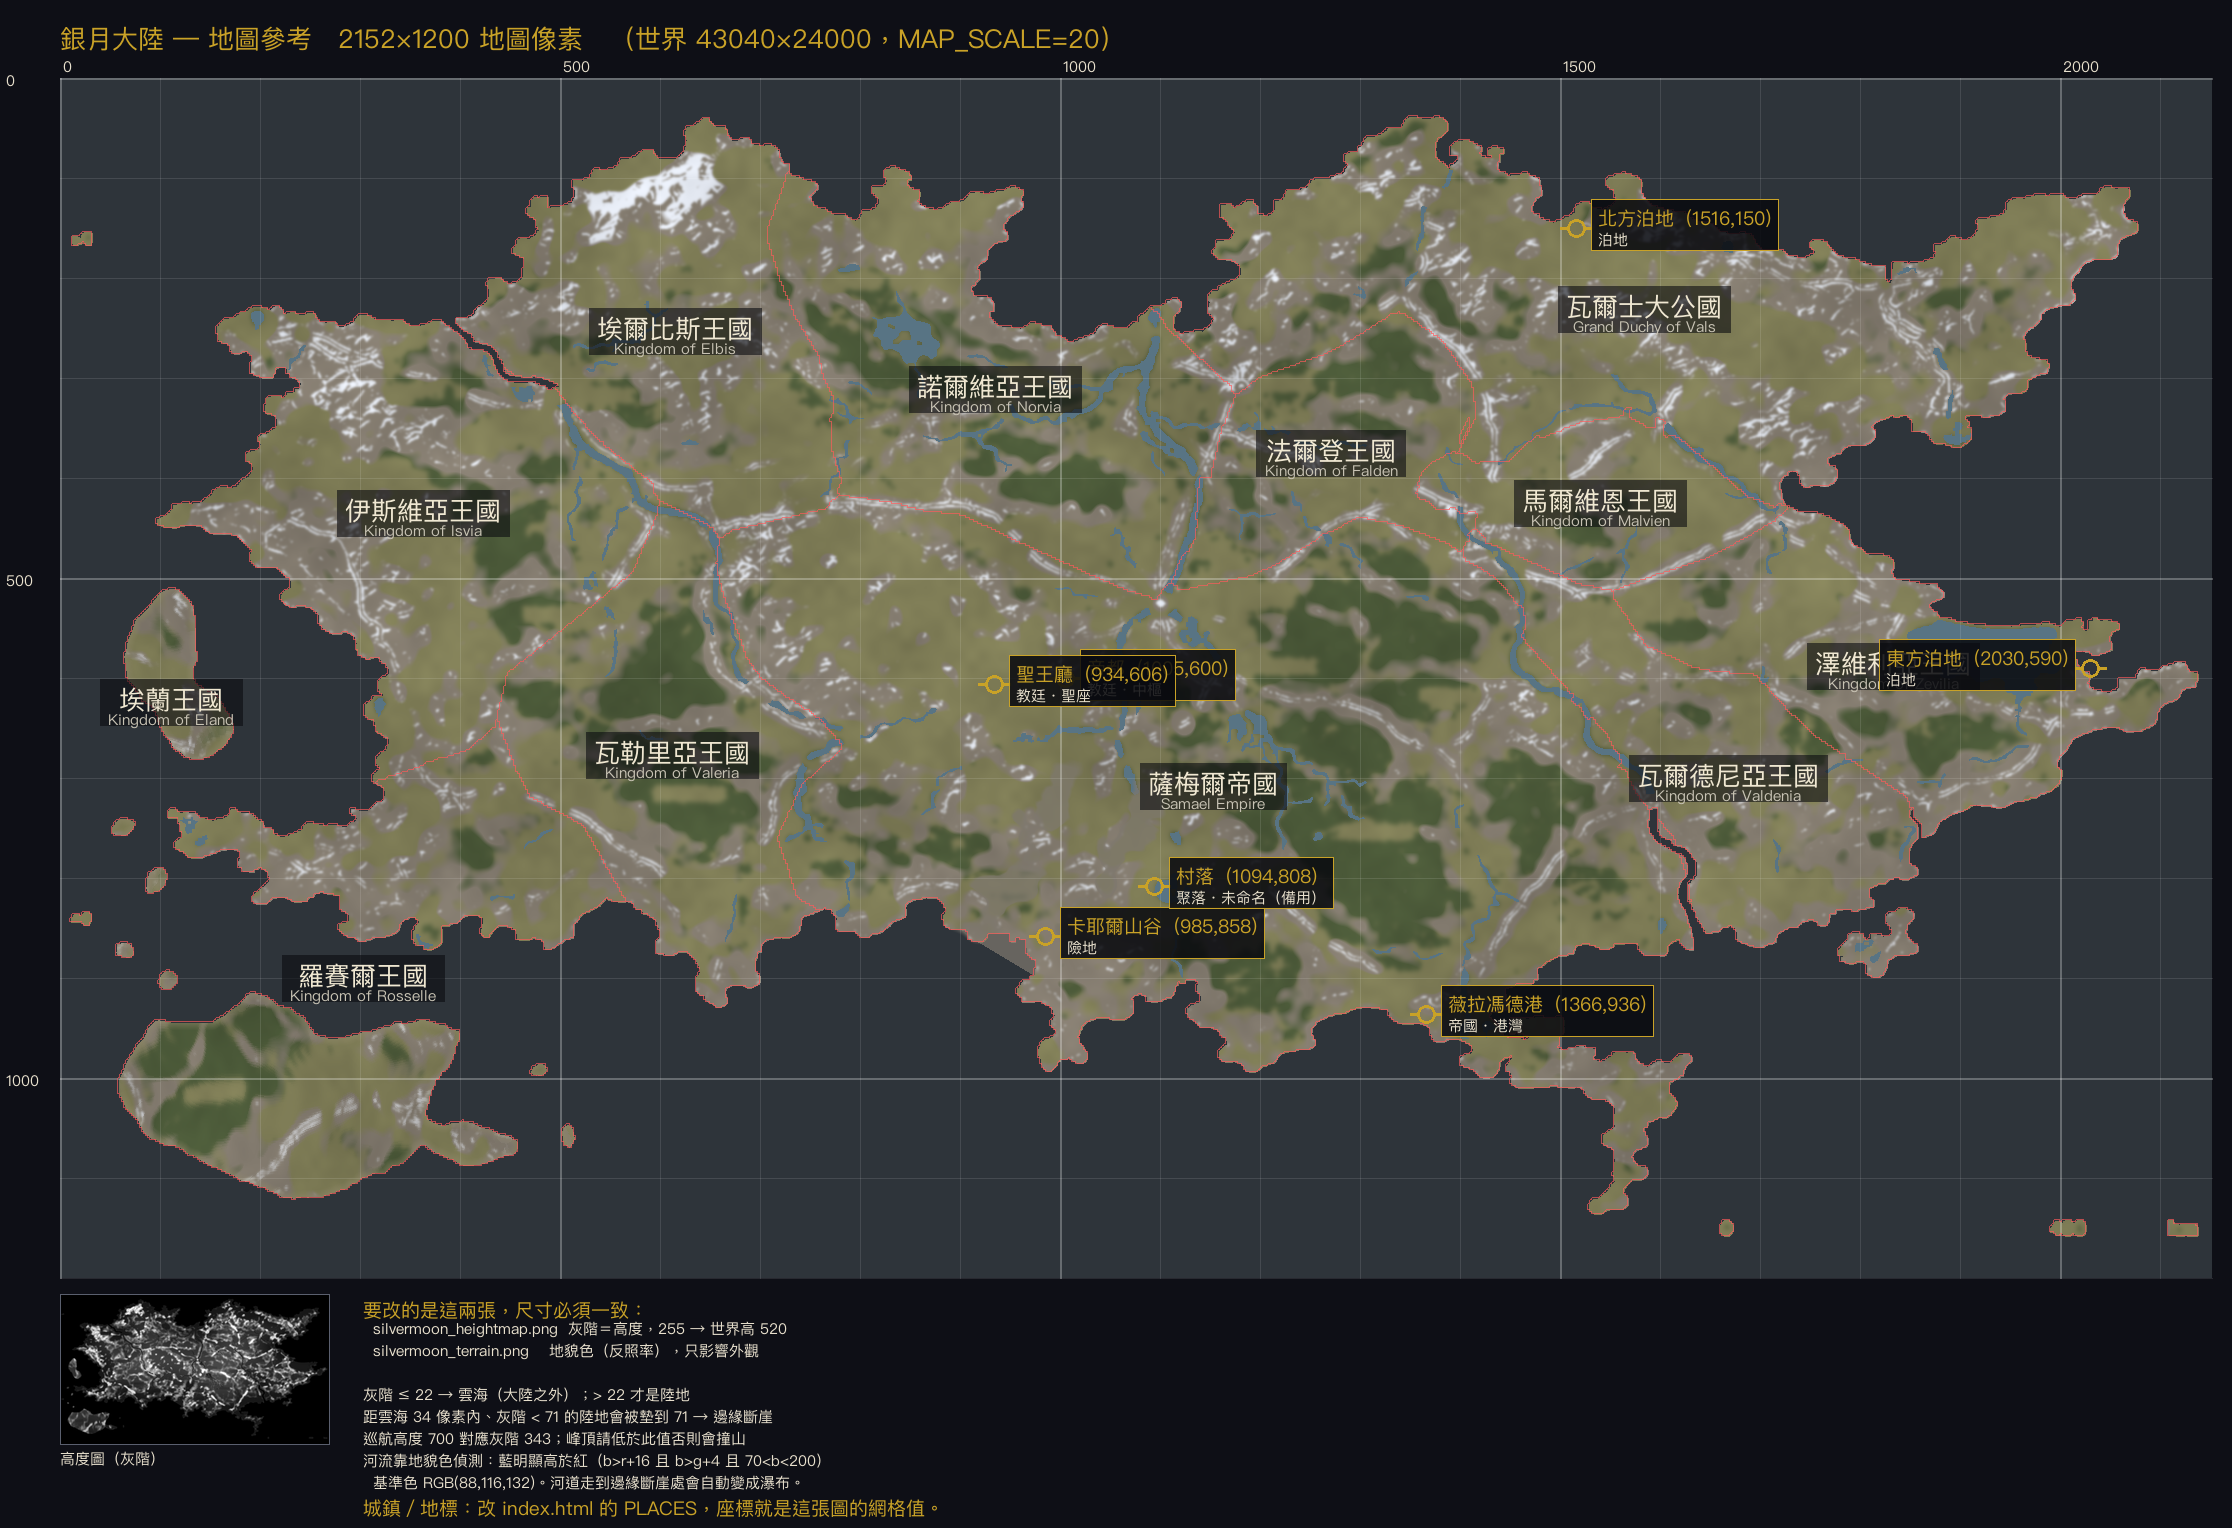
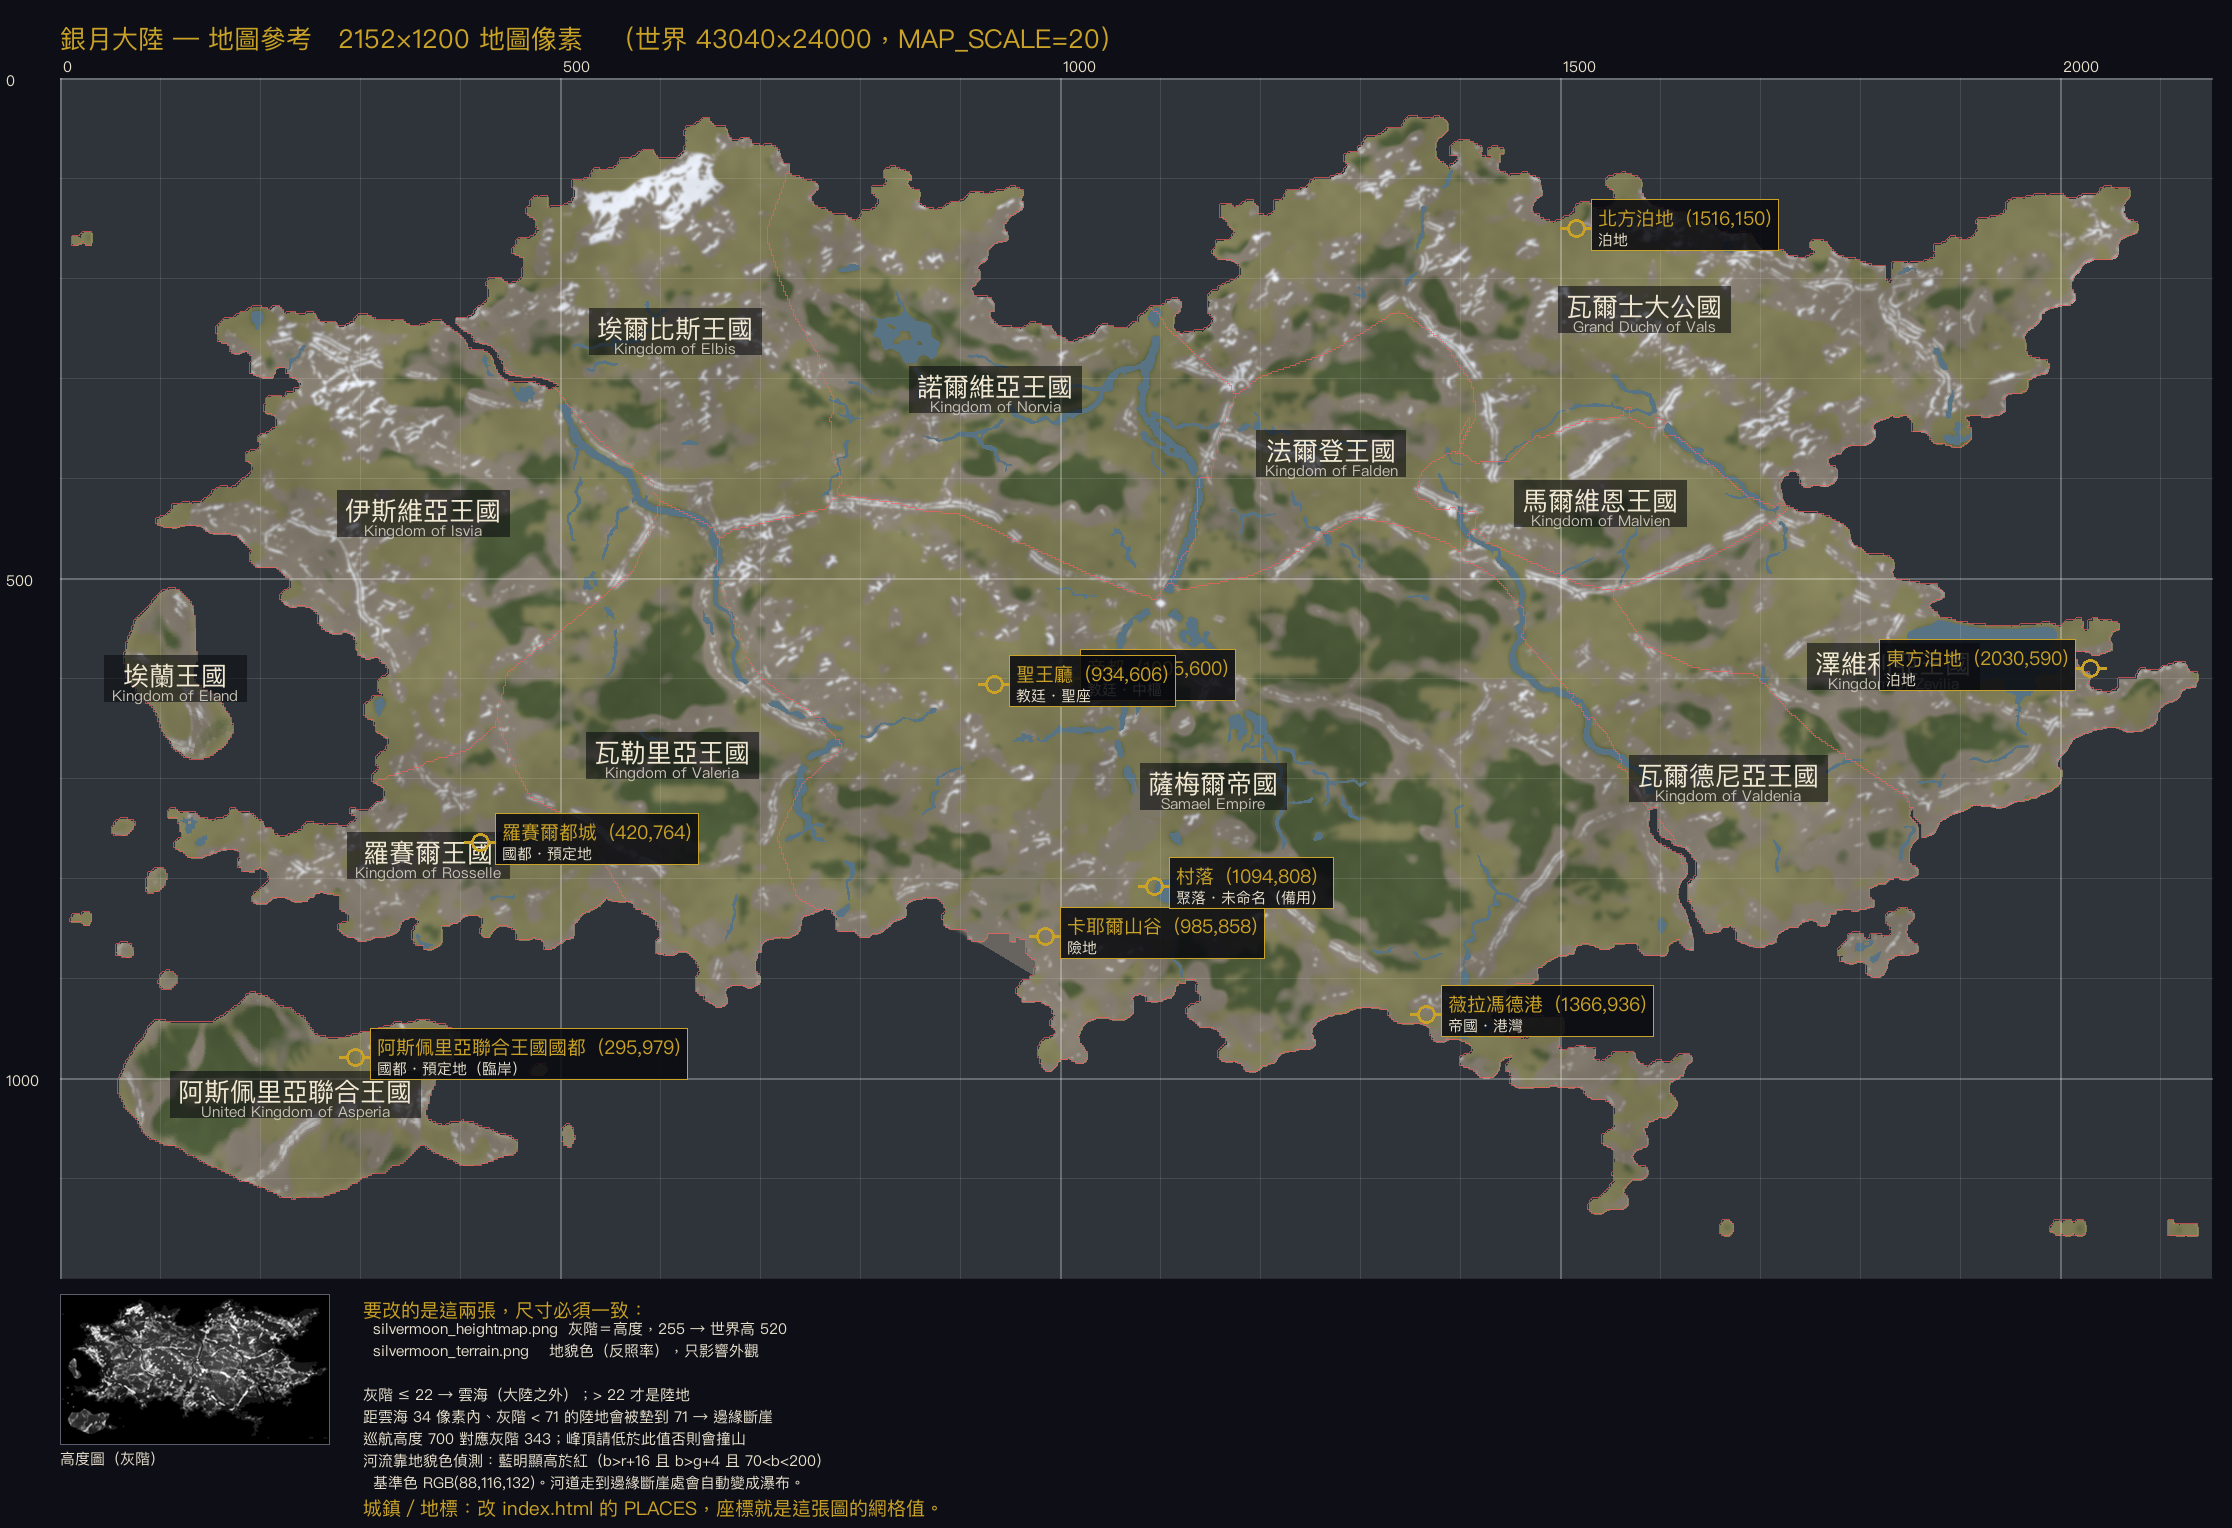
fix(flight): 羅賽爾退回本土、島群改劃阿斯佩里亞聯合王國，出國界審閱圖 ver -735
Ray：「羅賽爾的都城應該在420,764，其範圍沿用reference/region的恩雅王國。
西南大島與島群都是阿斯佩里亞聯合王國。國都位置在295,979，臨岸。」

- region_map：羅賽爾（id 9）退回本土 48,908px（＝抽取原樣）；
  主島＋島鏈＋東側小島＝阿斯佩里亞聯合王國（id 13，新）51,368px；
  埃蘭（id 12）只剩西方中島 10,500px。載入點 ?v=3，原 png 入回收區。
- 兩座國都（都在地上、聯合王國國都離海 21.8px＝臨岸）記在 export_mapref 的
  PLACES（國都・預定地）—— 城還沒建，不進 SETTLEMENTS。
- 新增 build_region_overlay.py：出 region_overlay.png 國界審閱圖 ——
  合成法與舊 Reference/region.png 相同（sheet×0.6＋國色×0.4），
  Ray 核可後可直接取代舊圖、build_regions.py 抽取照跑。**這一版還沒取代**。
- build_regions.py 的 ISLAND_REGIONS 對齊新劃法；map_reference.png 重出。
- 實測 regionAt：主島／島鏈／東側小島＝聯合王國、中島＝埃蘭、
  本土與 (420,764)＝羅賽爾。

Changed region(s): [[0.0618, 0.6152, 0.3091, 0.7382], [0.1546, 0.5229, 0.3091, 0.5844], [0.0309, 0.4306, 0.1237, 0.4921]]

diff --git a/flight/index.html b/flight/index.html
@@ -509,7 +509,7 @@ const COLOR_URL  = 'silvermoon_terrain.png?v=2';
       靠 DET_TILE（以世界座標平鋪 256 單位）補回高頻細節 ——
       世界放大後那層雜訊相對地貌變細，剛好幫忙蓋掉。 */
 /* 版本號（顯示在 HUD）。⚠ 與 config.js 的 VERSION 同步，改版本要一起改。 */
-const FLIGHT_VER = 'ver -734';
+const FLIGHT_VER = 'ver -735';
 const MAP_SCALE  = 20;
 const INV_SCALE  = 1/MAP_SCALE;
 const PEAK_SCALE = 520;   // 高度圖 255 對應的世界高度（越大山越陡）
@@ -7747,9 +7747,10 @@ let regionCur=-1, regionShownAt=0;
 const REGION_IN=420, REGION_HOLD=2600, REGION_OUT=900;   // 淡入／停留／淡出（ms）
 
 function loadRegions(){
-  /* ⚠ `?v=N`：同名覆蓋要快取戳記（§5 鐵則）。v2＝ver -734 國名修正＋
-     島群劃入羅賽爾／埃蘭（json 與 png 一起改、一起升版）。 */
-  return fetch('region_map.json?v=2').then(r=>r.ok?r.json():null).then(J=>{
+  /* ⚠ `?v=N`：同名覆蓋要快取戳記（§5 鐵則）。v3＝ver -735 依 Ray 更正：
+     羅賽爾退回本土、島群全劃阿斯佩里亞聯合王國（id 13）、埃蘭只剩西方中島
+     （json 與 png 一起改、一起升版）。 */
+  return fetch('region_map.json?v=3').then(r=>r.ok?r.json():null).then(J=>{
     if(!J) return;
     REGION_NAME=J.regions.map(r=>r.zh);
     return new Promise(res=>{
@@ -7767,7 +7768,7 @@ function loadRegions(){
       };
       im.onerror=()=>res();
       setTimeout(res,4000);
-      im.src='region_map.png?v=2';
+      im.src='region_map.png?v=3';
     });
   }).catch(()=>{});
 }

diff --git a/config.js b/config.js
@@ -21,7 +21,7 @@ import { ART } from './script/speakers.js';
  *     以為是快取卡住 —— 版本號不動就等於沒有版本號）。
  *  ⚠ 它同時是**暖開機戳記的鑰匙**（main.js 的 `WARM_BOOT`）：版本一變，
  *    上一版的戳記就失效 → 下一次開機重跑完整讀取。那正是改版後該有的行為。 */
-export const VERSION = 'ver 2026.09.02-734';
+export const VERSION = 'ver 2026.09.02-735';
 
 export const GAME_CONFIG = {
 

diff --git a/flight/build_region_overlay.py b/flight/build_region_overlay.py
@@ -1,0 +1,131 @@
+# -*- coding: utf-8 -*-
+"""出「國界劃分圖」—— Reference/region.png 的**替代候選**（ver -735，Ray：
+「出一張清楚畫分國界的圖，我看過正確就取代舊的 region」）。
+
+⚠⚠ 合成法必須與舊 region.png 相同：`sheet×(1-K_MIX) + 國色×K_MIX`（K_MIX=0.40，
+   見 build_regions.py 檔頭）—— 這樣核可之後把它放進 Reference/region.png，
+   build_regions.py 的線性差分抽取**照跑不用改**。
+⚠ 島群不在 silvermoon_sheet 上（那張是舊地形的成品圖）：島的底改鋪
+   silvermoon_terrain 的實地色再疊國色。抽取端不受影響 —— 島本來就不走
+   色彩抽取，走 ISLAND_REGIONS 的幾何劃界（見 build_regions.py）。
+⚠ 國界、國名、國色全部讀 **runtime 的 region_map.json/png**（鐵律 7）。
+   標籤文字會污染抽取的那幾個像素 —— 舊圖也一樣，補洞那一步會收拾。
+
+輸出：flight/region_overlay.png（審閱用；核可後由人搬進 Reference/region.png，
+      搬之前照規矩先 tools/recycle.sh 舊圖）。
+用法：py flight/build_region_overlay.py
+"""
+import json
+import os
+
+import numpy as np
+from PIL import Image, ImageDraw, ImageFont
+
+HERE = os.path.dirname(os.path.abspath(__file__))
+K_MIX = 0.40
+
+# 13 國各給一個「線性混色後仍分得開」的平色（k-means 抽取要靠它們互相遠離）。
+# id → RGB。0（無主）不上色。
+REGION_COLORS = {
+    1:  (196,  74,  74),   # 薩梅爾帝國
+    2:  (222, 158,  62),   # 瓦爾士大公國
+    3:  ( 96, 156, 219),   # 伊斯維亞王國
+    4:  (105, 199, 155),   # 諾爾維亞王國
+    5:  ( 68, 116, 196),   # 埃爾比斯王國
+    6:  (176,  96, 196),   # 瓦勒里亞王國
+    7:  (219, 199,  76),   # 澤維利亞王國
+    8:  ( 88, 176,  70),   # 瓦爾德尼亞王國
+    9:  (219, 108, 158),   # 羅賽爾王國
+    10: (140, 116,  76),   # 法爾登王國
+    11: ( 76, 190, 199),   # 馬爾維恩王國
+    12: (232, 232, 148),   # 埃蘭王國
+    13: (120,  92, 199),   # 阿斯佩里亞聯合王國
+}
+# 國都（ver -735，Ray 指定；與 export_mapref.py 的 PLACES 互指）
+CAPITALS = [(9, '羅賽爾都城', 420, 764), (13, '阿斯佩里亞聯合王國國都', 295, 979)]
+# 標籤位置：本土沿用 build_regions.py 的錨點（那是舊圖標籤的家）；島群與
+# 羅賽爾另指（羅賽爾錨點在改劃後太靠海）。沒列的用區域重心。
+LABEL_AT = {1: (1154, 709), 2: (1589, 228), 3: (365, 436), 4: (923, 312),
+            5: (620, 260), 6: (612, 677), 7: (1835, 588), 8: (1661, 691),
+            9: (330, 790), 10: (1266, 375), 11: (1553, 428),
+            12: (105, 590), 13: (250, 1030)}
+
+
+def load_font(size):
+    for path in ([os.path.join(r"C:\Windows\Fonts", n)
+                  for n in ("msjh.ttc", "msyh.ttc", "simhei.ttf")]
+                 + ["/System/Library/Fonts/PingFang.ttc",
+                    "/System/Library/Fonts/STHeiti Medium.ttc"]):
+        try:
+            return ImageFont.truetype(path, size)
+        except OSError:
+            continue
+    return ImageFont.load_default()
+
+
+def main():
+    sheet = np.asarray(Image.open(os.path.join(HERE, 'silvermoon_sheet.png'))
+                       .convert('RGB')).astype(np.float64)
+    terr = np.asarray(Image.open(os.path.join(HERE, 'silvermoon_terrain.png'))
+                      .convert('RGB')).astype(np.float64)
+    hgt = np.asarray(Image.open(os.path.join(HERE, 'silvermoon_heightmap.png'))
+                     .convert('L'))
+    J = json.load(open(os.path.join(HERE, 'region_map.json'), encoding='utf-8'))
+    rm = np.asarray(Image.open(os.path.join(HERE, 'region_map.png')))
+    H, W = hgt.shape
+    rmU = np.kron(rm, np.ones((2, 2), dtype=rm.dtype))[:H, :W]
+
+    # 底：sheet；島群那幾塊 sheet 上是海 → 換鋪實地色（見檔頭）
+    base = sheet.copy()
+    # 「sheet 上是海」直接用 rmU 的島 id 判：12/13 兩國整片都不在 sheet 上
+    isl = np.isin(rmU, [12, 13])
+    base[isl] = terr[isl]
+
+    out = base.copy()
+    for rid, c in REGION_COLORS.items():
+        m = rmU == rid
+        out[m] = base[m] * (1 - K_MIX) + np.array(c, dtype=np.float64) * K_MIX
+
+    # 國界描邊（深色細線，看得清楚但蓋不掉底色）
+    edge = np.zeros((H, W), dtype=bool)
+    edge[:-1, :] |= rmU[:-1, :] != rmU[1:, :]
+    edge[:, :-1] |= rmU[:, :-1] != rmU[:, 1:]
+    out[edge] = out[edge] * 0.35
+
+    im = Image.fromarray(np.clip(out, 0, 255).astype(np.uint8))
+    d = ImageDraw.Draw(im)
+    f_zh, f_en = load_font(30), load_font(16)
+    for r in J['regions']:
+        rid = r['id']
+        if rid == 0:
+            continue
+        if rid in LABEL_AT:
+            cx, cy = LABEL_AT[rid]
+        else:
+            ys, xs = np.where(rmU == rid)
+            if not len(xs):
+                continue
+            cx, cy = int(xs.mean()), int(ys.mean())
+        zh, en = r['zh'], r.get('en', '')
+        for dx in (-2, 0, 2):
+            for dy in (-2, 0, 2):
+                d.text((cx - d.textlength(zh, font=f_zh) / 2 + dx, cy - 20 + dy),
+                       zh, font=f_zh, fill=(10, 10, 14))
+        d.text((cx - d.textlength(zh, font=f_zh) / 2, cy - 20), zh,
+               font=f_zh, fill=(255, 252, 240))
+        if en:
+            d.text((cx - d.textlength(en, font=f_en) / 2, cy + 16), en,
+                   font=f_en, fill=(235, 230, 214))
+    for rid, name, x, y in CAPITALS:
+        d.ellipse([x - 7, y - 7, x + 7, y + 7], outline=(255, 240, 120), width=3)
+        d.ellipse([x - 2, y - 2, x + 2, y + 2], fill=(255, 240, 120))
+        d.text((x + 12, y - 10), '★ ' + name + f' ({x},{y})',
+               font=f_en, fill=(255, 240, 120), stroke_width=2, stroke_fill=(10, 10, 14))
+
+    outp = os.path.join(HERE, 'region_overlay.png')
+    im.save(outp)
+    print('→', outp, im.size)
+
+
+if __name__ == '__main__':
+    main()

diff --git a/flight/build_regions.py b/flight/build_regions.py
@@ -52,18 +52,23 @@ ANCHORS = [
     ('馬爾維恩王國',   'Kingdom of Malvien',         1553, 428),
 ]
 
-# ══ 外海島群（ver -734）══ Reference/region.png 沒有這些島（它畫在舊地形上）——
-# 島群的國界由**現行高度圖**推：新增的陸地（region.png 抽不到＝id 0）落在哪個框
-# 就劃給誰。與 build_island.py 的島是同一批（那支生成地形、這裡劃國界）。
-#   羅賽爾王國（id 9）＝本土（舊恩雅）＋西南大島與其東側小島
-#   埃蘭王國（id 12，新國）＝西方中島＋往南那串小島
+# ══ 外海島群（ver -734；-735 依 Ray 更正）══ Reference/region.png 沒有這些島
+# （它畫在舊地形上）—— 島群的國界由**現行高度圖**推：新增的陸地（region.png
+# 抽不到＝id 0）落在哪個框就劃給誰。與 build_island.py 的島是同一批
+# （那支生成地形、這裡劃國界）。
+# ⚠⚠ ver -735（Ray）：「羅賽爾…範圍沿用 reference/region 的恩雅王國」
+#   「西南大島與島群都是阿斯佩里亞聯合王國」—— 羅賽爾退回本土（抽取原樣），
+#   主島＋所有小島＝阿斯佩里亞聯合王國（id 13）；埃蘭（id 12）只剩西方中島。
+#   國都：羅賽爾 (420,764)、阿斯佩里亞聯合王國 (295,979)（臨岸）——
+#   都城還沒建城，座標先記在 export_mapref.py 的 PLACES（規劃用）。
 ISLAND_REGIONS = [
     # (id, y0, y1, x0, x1)  全解析地圖像素；整個連通塊都在框內才劃入
-    # ⚠ 兩框在 y 895~940 有一小段重疊：先列的先配（島鏈最南那顆屬埃蘭）。
-    (12, 460, 940, 20, 210),
-    (9,  895, 1200, 30, 580),
+    (12, 460, 720, 20, 210),     # 西方中島＝埃蘭
+    (13, 700, 940, 20, 210),     # 島鏈
+    (13, 895, 1200, 30, 580),    # 西南大島＋其東側小島
 ]
-ISLAND_NAMES = {12: ('埃蘭王國', 'Kingdom of Eland')}   # 9 已在 ANCHORS（羅賽爾）
+ISLAND_NAMES = {12: ('埃蘭王國', 'Kingdom of Eland'),
+                13: ('阿斯佩里亞聯合王國', 'United Kingdom of Asperia')}
 
 
 def main():

diff --git a/flight/build_island.py b/flight/build_island.py
@@ -6,7 +6,7 @@ ver -733：伊斯維亞王國（舊名阿斯佩里亞）外海的大型島嶼（
   · 主島在大陸西南外海，長軸東西向（不列顛是南北向）
   · 中島在主島「北方」的西灣（愛爾蘭在不列顛西方）
   · 小島鏈沿中島與主島之間往南串（赫布里底群島在蘇格蘭西北）
-島群的國界（羅賽爾／埃蘭）由 build_regions.py 的 ISLAND_REGIONS 劃（兩邊互指）。
+島群的國界（主島＋小島＝阿斯佩里亞聯合王國、中島＝埃蘭，ver -735 Ray 定案）由 build_regions.py 的 ISLAND_REGIONS 劃（兩邊互指）。
 重跑：py flight/build_island.py —— ⚠ 它會**覆蓋**兩張 silvermoon PNG，
 跑之前先 tools/recycle.sh 回收現行版，跑完把 index.html 的 ?v=N 再 +1（§5 快取鐵則）。
 預覽輸出 _island_preview.png / _island_world.png（底線開頭，遊戲不載、gitignore 同類）。

diff --git a/flight/export_mapref.py b/flight/export_mapref.py
@@ -32,6 +32,9 @@ PLACES = [
     (1516, 150, "北方泊地",     "泊地"),
     (2030, 590, "東方泊地",     "泊地"),
     (1094, 808, "村落",         "聚落・未命名（備用）"),
+    # ver -735（Ray 指定）：兩座國都的預定地，城還沒建 —— 只在參考圖上標。
+    (420,  764, "羅賽爾都城",   "國都・預定地"),
+    (295,  979, "阿斯佩里亞聯合王國國都", "國都・預定地（臨岸）"),
 ]
 
 GRID      = 100        # 網格間距（地圖像素）
